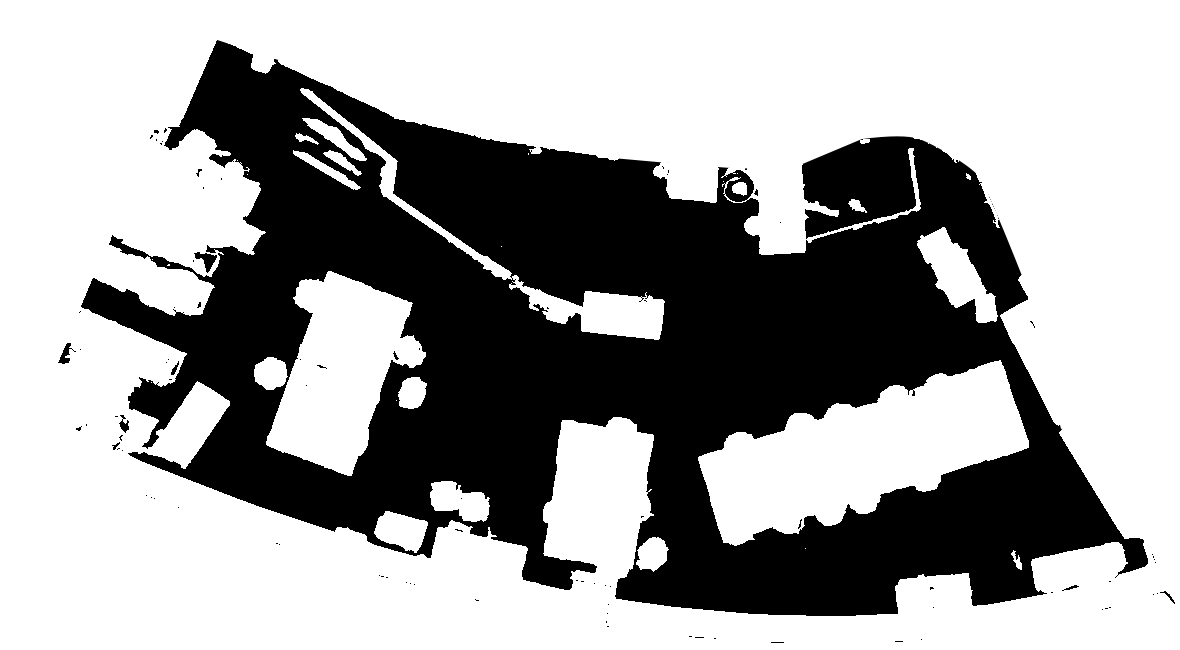
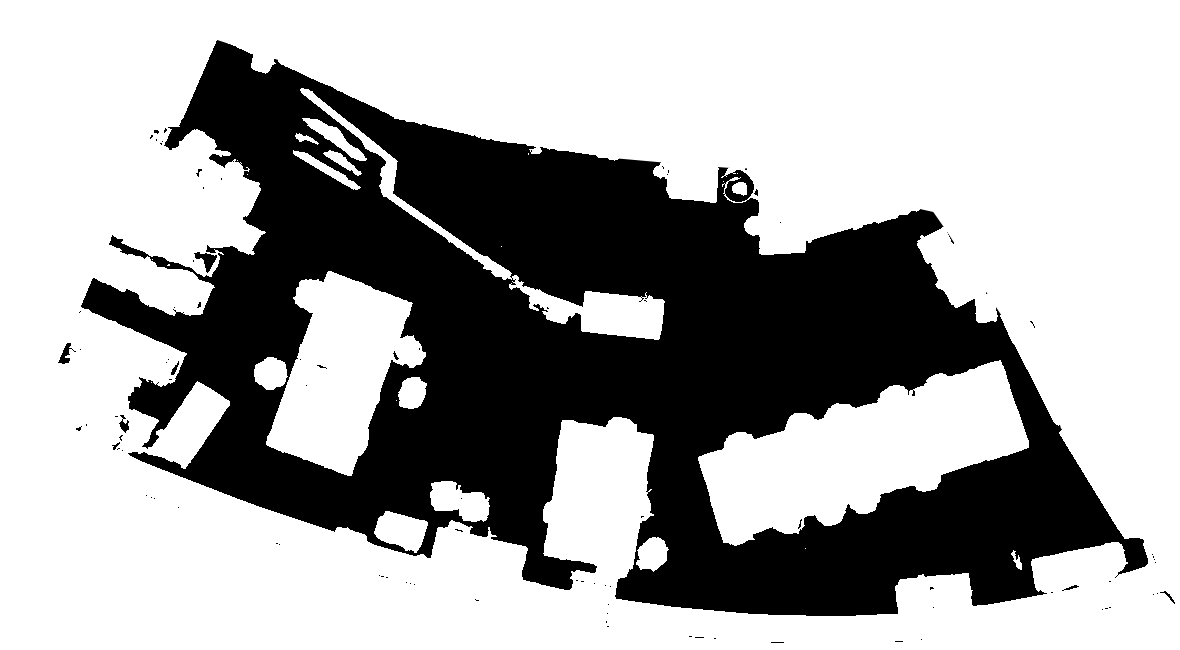
It's nice

Changed region(s): [[0.6712, 0.1846, 0.8847, 0.4923]]

diff --git a/main.js b/main.js
@@ -25,7 +25,7 @@ const renderer = new CanvasRenderer(width, height);
 
 // renderer.drawField(field);
 
-function start(obstacleGfx) {
+function start(obstacleGfx, baseId) {
   const field = new Field(width, height, obstacleGfx);
   const coolX = 733;
   const coolY = 215;
@@ -39,7 +39,7 @@ function start(obstacleGfx) {
   renderer.gfx.fillStyle = 'black';
   // renderer.fillObstacles(field);
   // renderer.drawField(field);
-  let id = obstacleGfx.getImageData(0, 0, width, height);
+  let id = baseId;
   for (let i = 0; i < id.data.length / 4; i++) {
     if (id.data[4 * i] > 127) {
       id.data[4 * i + 0] = 0;
@@ -80,7 +80,9 @@ function start(obstacleGfx) {
 
 stlToDepthImage(function(gfx) {
   gfx.clearRect(0, 0, width, height);
-  gfx.drawImage(document.querySelector('img'), 0, 0);
-  console.log('this will work', gfx);
-  start(gfx);
+  gfx.drawImage(document.querySelector('img.middleground'), 0, 0);
+  const baseId = gfx.getImageData(0, 0, width, height)
+  gfx.clearRect(0, 0, width, height);
+  gfx.drawImage(document.querySelector('img.coolest'), 0, 0);
+  start(gfx, baseId);
 });

diff --git a/index.html b/index.html
@@ -6,7 +6,8 @@
     <link rel="stylesheet" href="style.css"/>
   </head>
   <body>
-    <img src="coolest.png" style="display: none"/>
+    <img src="coolest.png" class="coolest" style="display: none"/>
+    <img src="middleground.png" class="middleground" style="display: none"/>
     <canvas></canvas>
     <canvas id="obj"></canvas>
     <script src="three.min.js"></script>

diff --git a/stlToDepthImage.js b/stlToDepthImage.js
@@ -157,7 +157,7 @@ function readDepthData(callback) {
   canvas.style.height = `${th}px`;
   const coolestGfx = canvas.getContext('2d');
   coolestGfx.putImageData(coolGfx.getImageData(tx, ty, tw, th), 0, 0);
-  document.body.appendChild(canvas);
+  // document.body.appendChild(canvas);
   callback(coolestGfx);
 }
 
